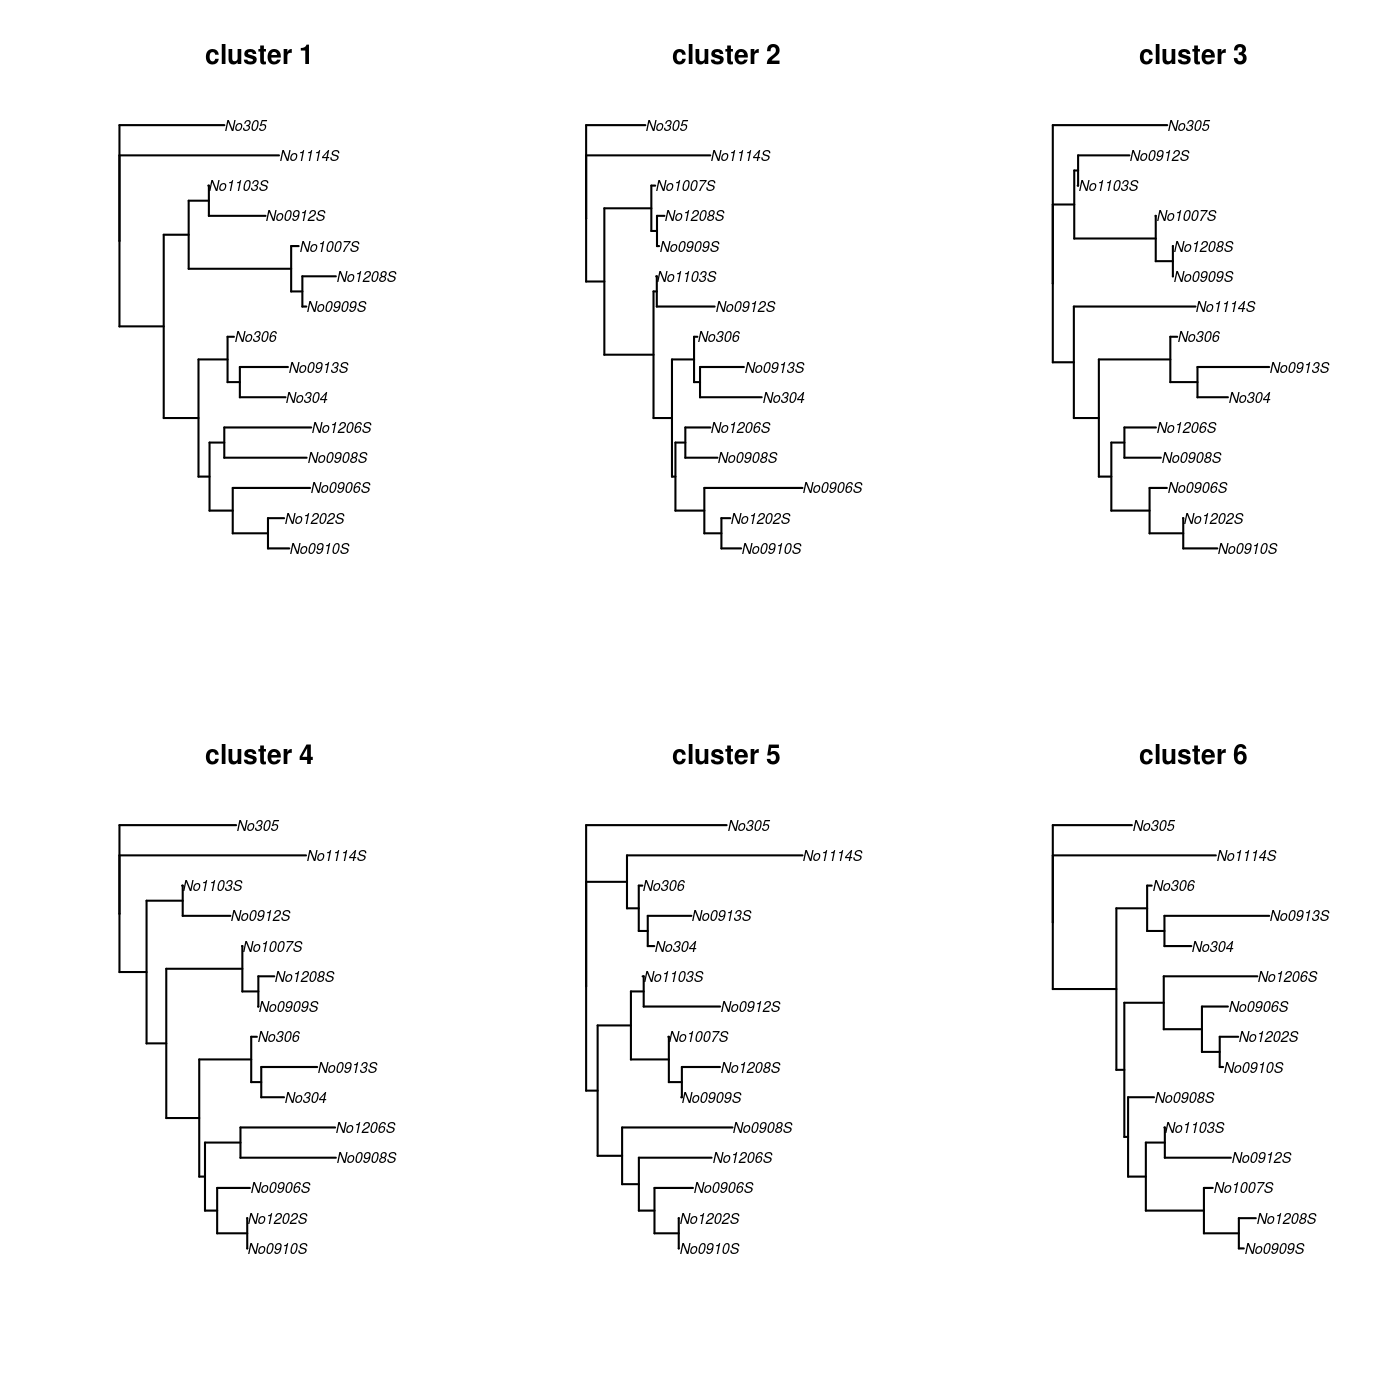
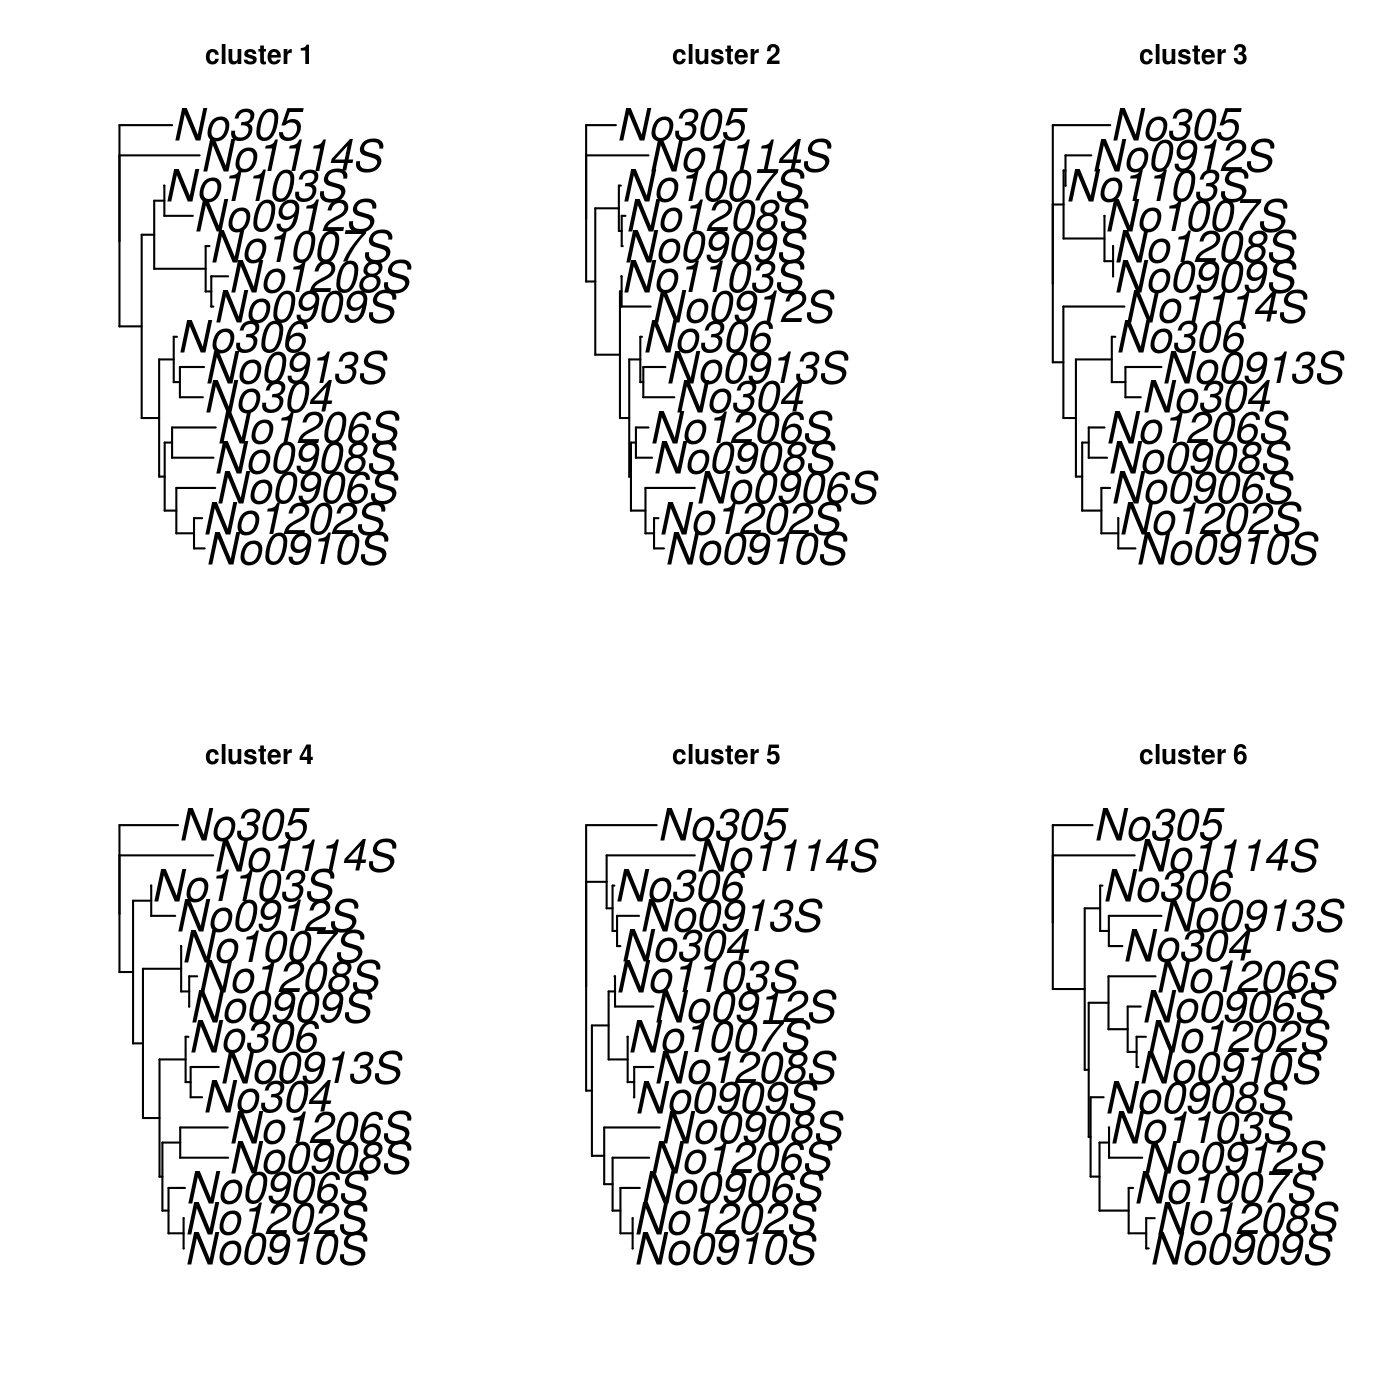
polishing vignette

diff --git a/README.md b/README.md
@@ -134,18 +134,11 @@ table.image(res$D, nclass=30)
 <img src="vignettes/figs/distances-1.png" title="plot of chunk distances" alt="plot of chunk distances" width="400px" />
 
 ```r
-## table.value
-table.value(res$D, nclass=5)
+## table.value with some customization
+table.value(res$D, nclass=5, method="color", symbol="circle", col=redpal(5))
 ```
 
 <img src="vignettes/figs/distances-2.png" title="plot of chunk distances" alt="plot of chunk distances" width="400px" />
-
-```r
-## with some customization
-table.value(res$D, nclass=5, method="color" , symbol="circle", col=redpal(5))
-```
-
-<img src="vignettes/figs/distances-3.png" title="plot of chunk distances" alt="plot of chunk distances" width="400px" />
 
 The best representation of these distances in a 2-dimensional space is given by the first 2 PCs of the MDS.
 These can be visualised using *adegraphics*'s function `scatter`:
@@ -300,13 +293,16 @@ plotGroves(wm.groves, type="ellipse")
 plotGroves(wm.groves, xax=2, yax=3)
 ```
 
-<img src="vignettes/figs/plotgroves2-1.png" title="plot of chunk plotgroves2" alt="plot of chunk plotgroves2" width="400px" />
+<img src="vignettes/figs/plotgroves-3.png" title="plot of chunk plotgroves" alt="plot of chunk plotgroves" width="400px" />
 
 
 ## customize graphics
-plotGroves(wm.groves, bg="black", col.pal=lightseasun, lab.show=TRUE, lab.col="white", lab.cex=1.5)
 
+```r
+plotGroves(wm.groves, bg="black", col.pal=lightseasun, lab.show=TRUE, lab.col="white", lab.cex=1.5)
 ```
+
+<img src="vignettes/figs/plotgroves2-1.png" title="plot of chunk plotgroves2" alt="plot of chunk plotgroves2" width="400px" />
 
 
 
@@ -363,7 +359,7 @@ med.trees <- lapply(res, function(e) ladderize(e$trees[[1]]))
 
 ## plot trees
 par(mfrow=c(2,3))
-for(i in 1:length(med.trees)) plot(med.trees[[i]], main=paste("cluster",i))
+for(i in 1:length(med.trees)) plot(med.trees[[i]], main=paste("cluster",i),cex=2)
 ```
 
 <img src="vignettes/figs/woodmiceCluster1-1.png" title="plot of chunk woodmiceCluster1" alt="plot of chunk woodmiceCluster1" width="600px" />
@@ -397,7 +393,7 @@ treeVec(tree)
 ```
 
 ```
-##  [1] 1 1 0 2 0 2 0 1 0 0 1 0 0 1 0 1 1 1 1 1 1
+##  [1] 0 0 0 0 0 1 3 1 2 1 2 1 1 2 1 1 1 1 1 1 1
 ```
 
 ```r
@@ -406,9 +402,9 @@ treeVec(tree,0.5)
 ```
 
 ```
-##  [1] 0.6775 0.6775 0.0000 1.3465 0.0000 1.3670 0.0000 0.6775 0.0000 0.0000
-## [11] 0.6775 0.0000 0.0000 0.9442 0.0000 0.6646 0.8074 0.7531 0.5180 0.7866
-## [21] 0.5690
+##  [1] 0.0000 0.0000 0.0000 0.0000 0.0000 0.6410 2.4276 0.6410 1.5522 0.6410
+## [11] 1.5136 0.6410 0.6410 1.5522 0.6410 0.6007 0.9904 0.6281 0.8500 0.5161
+## [21] 0.6318
 ```
 
 ```r
@@ -419,9 +415,9 @@ vecAsFunction(0.5)
 ```
 
 ```
-##  [1] 0.6775 0.6775 0.0000 1.3465 0.0000 1.3670 0.0000 0.6775 0.0000 0.0000
-## [11] 0.6775 0.0000 0.0000 0.9442 0.0000 0.6646 0.8074 0.7531 0.5180 0.7866
-## [21] 0.5690
+##  [1] 0.0000 0.0000 0.0000 0.0000 0.0000 0.6410 2.4276 0.6410 1.5522 0.6410
+## [11] 1.5136 0.6410 0.6410 1.5522 0.6410 0.6007 0.9904 0.6281 0.8500 0.5161
+## [21] 0.6318
 ```
 
 The metric -- the distance between two trees -- is the Euclidean distance between these vectors:
@@ -441,7 +437,7 @@ treeDist(tree_a,tree_b)
 ```
 
 ```
-## [1] 5.477
+## [1] 6.245
 ```
 
 ```r
@@ -450,7 +446,7 @@ treeDist(tree_a,tree_b,1)
 ```
 
 ```
-## [1] 3.149
+## [1] 3.453
 ```
 
 

diff --git a/vignettes/treescape.md b/vignettes/treescape.md
@@ -142,18 +142,11 @@ table.image(res$D, nclass=30)
 <img src="figs/distances-1.png" title="plot of chunk distances" alt="plot of chunk distances" width="400px" />
 
 ```r
-## table.value
-table.value(res$D, nclass=5)
+## table.value with some customization
+table.value(res$D, nclass=5, method="color", symbol="circle", col=redpal(5))
 ```
 
 <img src="figs/distances-2.png" title="plot of chunk distances" alt="plot of chunk distances" width="400px" />
-
-```r
-## with some customization
-table.value(res$D, nclass=5, method="color" , symbol="circle", col=redpal(5))
-```
-
-<img src="figs/distances-3.png" title="plot of chunk distances" alt="plot of chunk distances" width="400px" />
 
 The best representation of these distances in a 2-dimensional space is given by the first 2 PCs of the MDS.
 These can be visualised using *adegraphics*'s function `scatter`:
@@ -309,13 +302,16 @@ plotGroves(wm.groves, type="ellipse")
 plotGroves(wm.groves, xax=2, yax=3)
 ```
 
-<img src="figs/plotgroves2-1.png" title="plot of chunk plotgroves2" alt="plot of chunk plotgroves2" width="400px" />
+<img src="figs/plotgroves-3.png" title="plot of chunk plotgroves" alt="plot of chunk plotgroves" width="400px" />
 
 
 ## customize graphics
-plotGroves(wm.groves, bg="black", col.pal=lightseasun, lab.show=TRUE, lab.col="white", lab.cex=1.5)
 
+```r
+plotGroves(wm.groves, bg="black", col.pal=lightseasun, lab.show=TRUE, lab.col="white", lab.cex=1.5)
 ```
+
+<img src="figs/plotgroves2-1.png" title="plot of chunk plotgroves2" alt="plot of chunk plotgroves2" width="400px" />
 
 
 
@@ -373,7 +369,7 @@ med.trees <- lapply(res, function(e) ladderize(e$trees[[1]]))
 
 ## plot trees
 par(mfrow=c(2,3))
-for(i in 1:length(med.trees)) plot(med.trees[[i]], main=paste("cluster",i))
+for(i in 1:length(med.trees)) plot(med.trees[[i]], main=paste("cluster",i),cex=2)
 ```
 
 <img src="figs/woodmiceCluster1-1.png" title="plot of chunk woodmiceCluster1" alt="plot of chunk woodmiceCluster1" width="600px" />
@@ -407,7 +403,7 @@ treeVec(tree)
 ```
 
 ```
-##  [1] 1 1 0 2 0 2 0 1 0 0 1 0 0 1 0 1 1 1 1 1 1
+##  [1] 0 0 0 0 0 1 3 1 2 1 2 1 1 2 1 1 1 1 1 1 1
 ```
 
 ```r
@@ -416,9 +412,9 @@ treeVec(tree,0.5)
 ```
 
 ```
-##  [1] 0.6775 0.6775 0.0000 1.3465 0.0000 1.3670 0.0000 0.6775 0.0000 0.0000
-## [11] 0.6775 0.0000 0.0000 0.9442 0.0000 0.6646 0.8074 0.7531 0.5180 0.7866
-## [21] 0.5690
+##  [1] 0.0000 0.0000 0.0000 0.0000 0.0000 0.6410 2.4276 0.6410 1.5522 0.6410
+## [11] 1.5136 0.6410 0.6410 1.5522 0.6410 0.6007 0.9904 0.6281 0.8500 0.5161
+## [21] 0.6318
 ```
 
 ```r
@@ -429,9 +425,9 @@ vecAsFunction(0.5)
 ```
 
 ```
-##  [1] 0.6775 0.6775 0.0000 1.3465 0.0000 1.3670 0.0000 0.6775 0.0000 0.0000
-## [11] 0.6775 0.0000 0.0000 0.9442 0.0000 0.6646 0.8074 0.7531 0.5180 0.7866
-## [21] 0.5690
+##  [1] 0.0000 0.0000 0.0000 0.0000 0.0000 0.6410 2.4276 0.6410 1.5522 0.6410
+## [11] 1.5136 0.6410 0.6410 1.5522 0.6410 0.6007 0.9904 0.6281 0.8500 0.5161
+## [21] 0.6318
 ```
 
 The metric -- the distance between two trees -- is the Euclidean distance between these vectors:
@@ -451,7 +447,7 @@ treeDist(tree_a,tree_b)
 ```
 
 ```
-## [1] 5.477
+## [1] 6.245
 ```
 
 ```r
@@ -460,7 +456,7 @@ treeDist(tree_a,tree_b,1)
 ```
 
 ```
-## [1] 3.149
+## [1] 3.453
 ```
 
 
